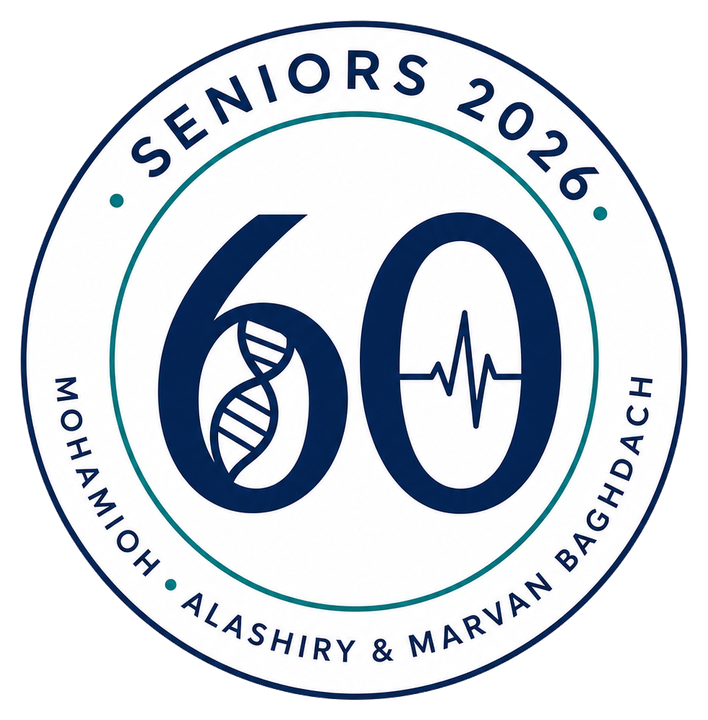
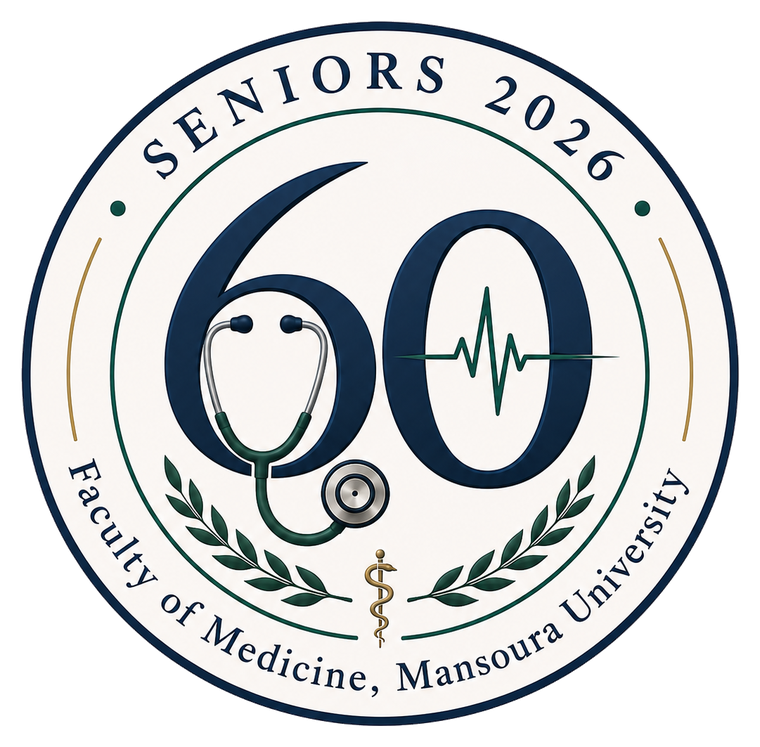
Replace class badge with corrected Mansoura University version

diff --git a/index.html b/index.html
@@ -126,7 +126,7 @@
   <header class="hero">
     <div class="kick">Faculty of Medicine · Semester 10</div>
     <div class="badge-wrap">
-      <img src="seniors2026.png?v=2" alt="Seniors 2026 — Together we strive, together we thrive">
+      <img src="seniors2026.png?v=3" alt="Seniors 2026 — Faculty of Medicine, Mansoura University">
     </div>
     <div class="sub">Internal Medicine &amp; Surgery study trackers</div>
   </header>
